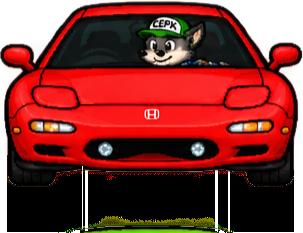
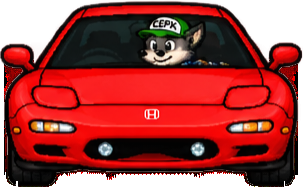
fix: cards da selecao usam o sprite lateral (opts) e sprites sem a caixa preta embaixo

diff --git a/src/ui/screens.ts b/src/ui/screens.ts
@@ -254,8 +254,7 @@ export function drawCarSelectScreen(
       body: item.body,
       accent: item.accent,
       style: item.style,
-      ...{ view: 'side' as const },
-    });
+    }, { view: 'side' });
 
     ctx.font = 'bold 8px monospace';
     ctx.textAlign = 'center';
